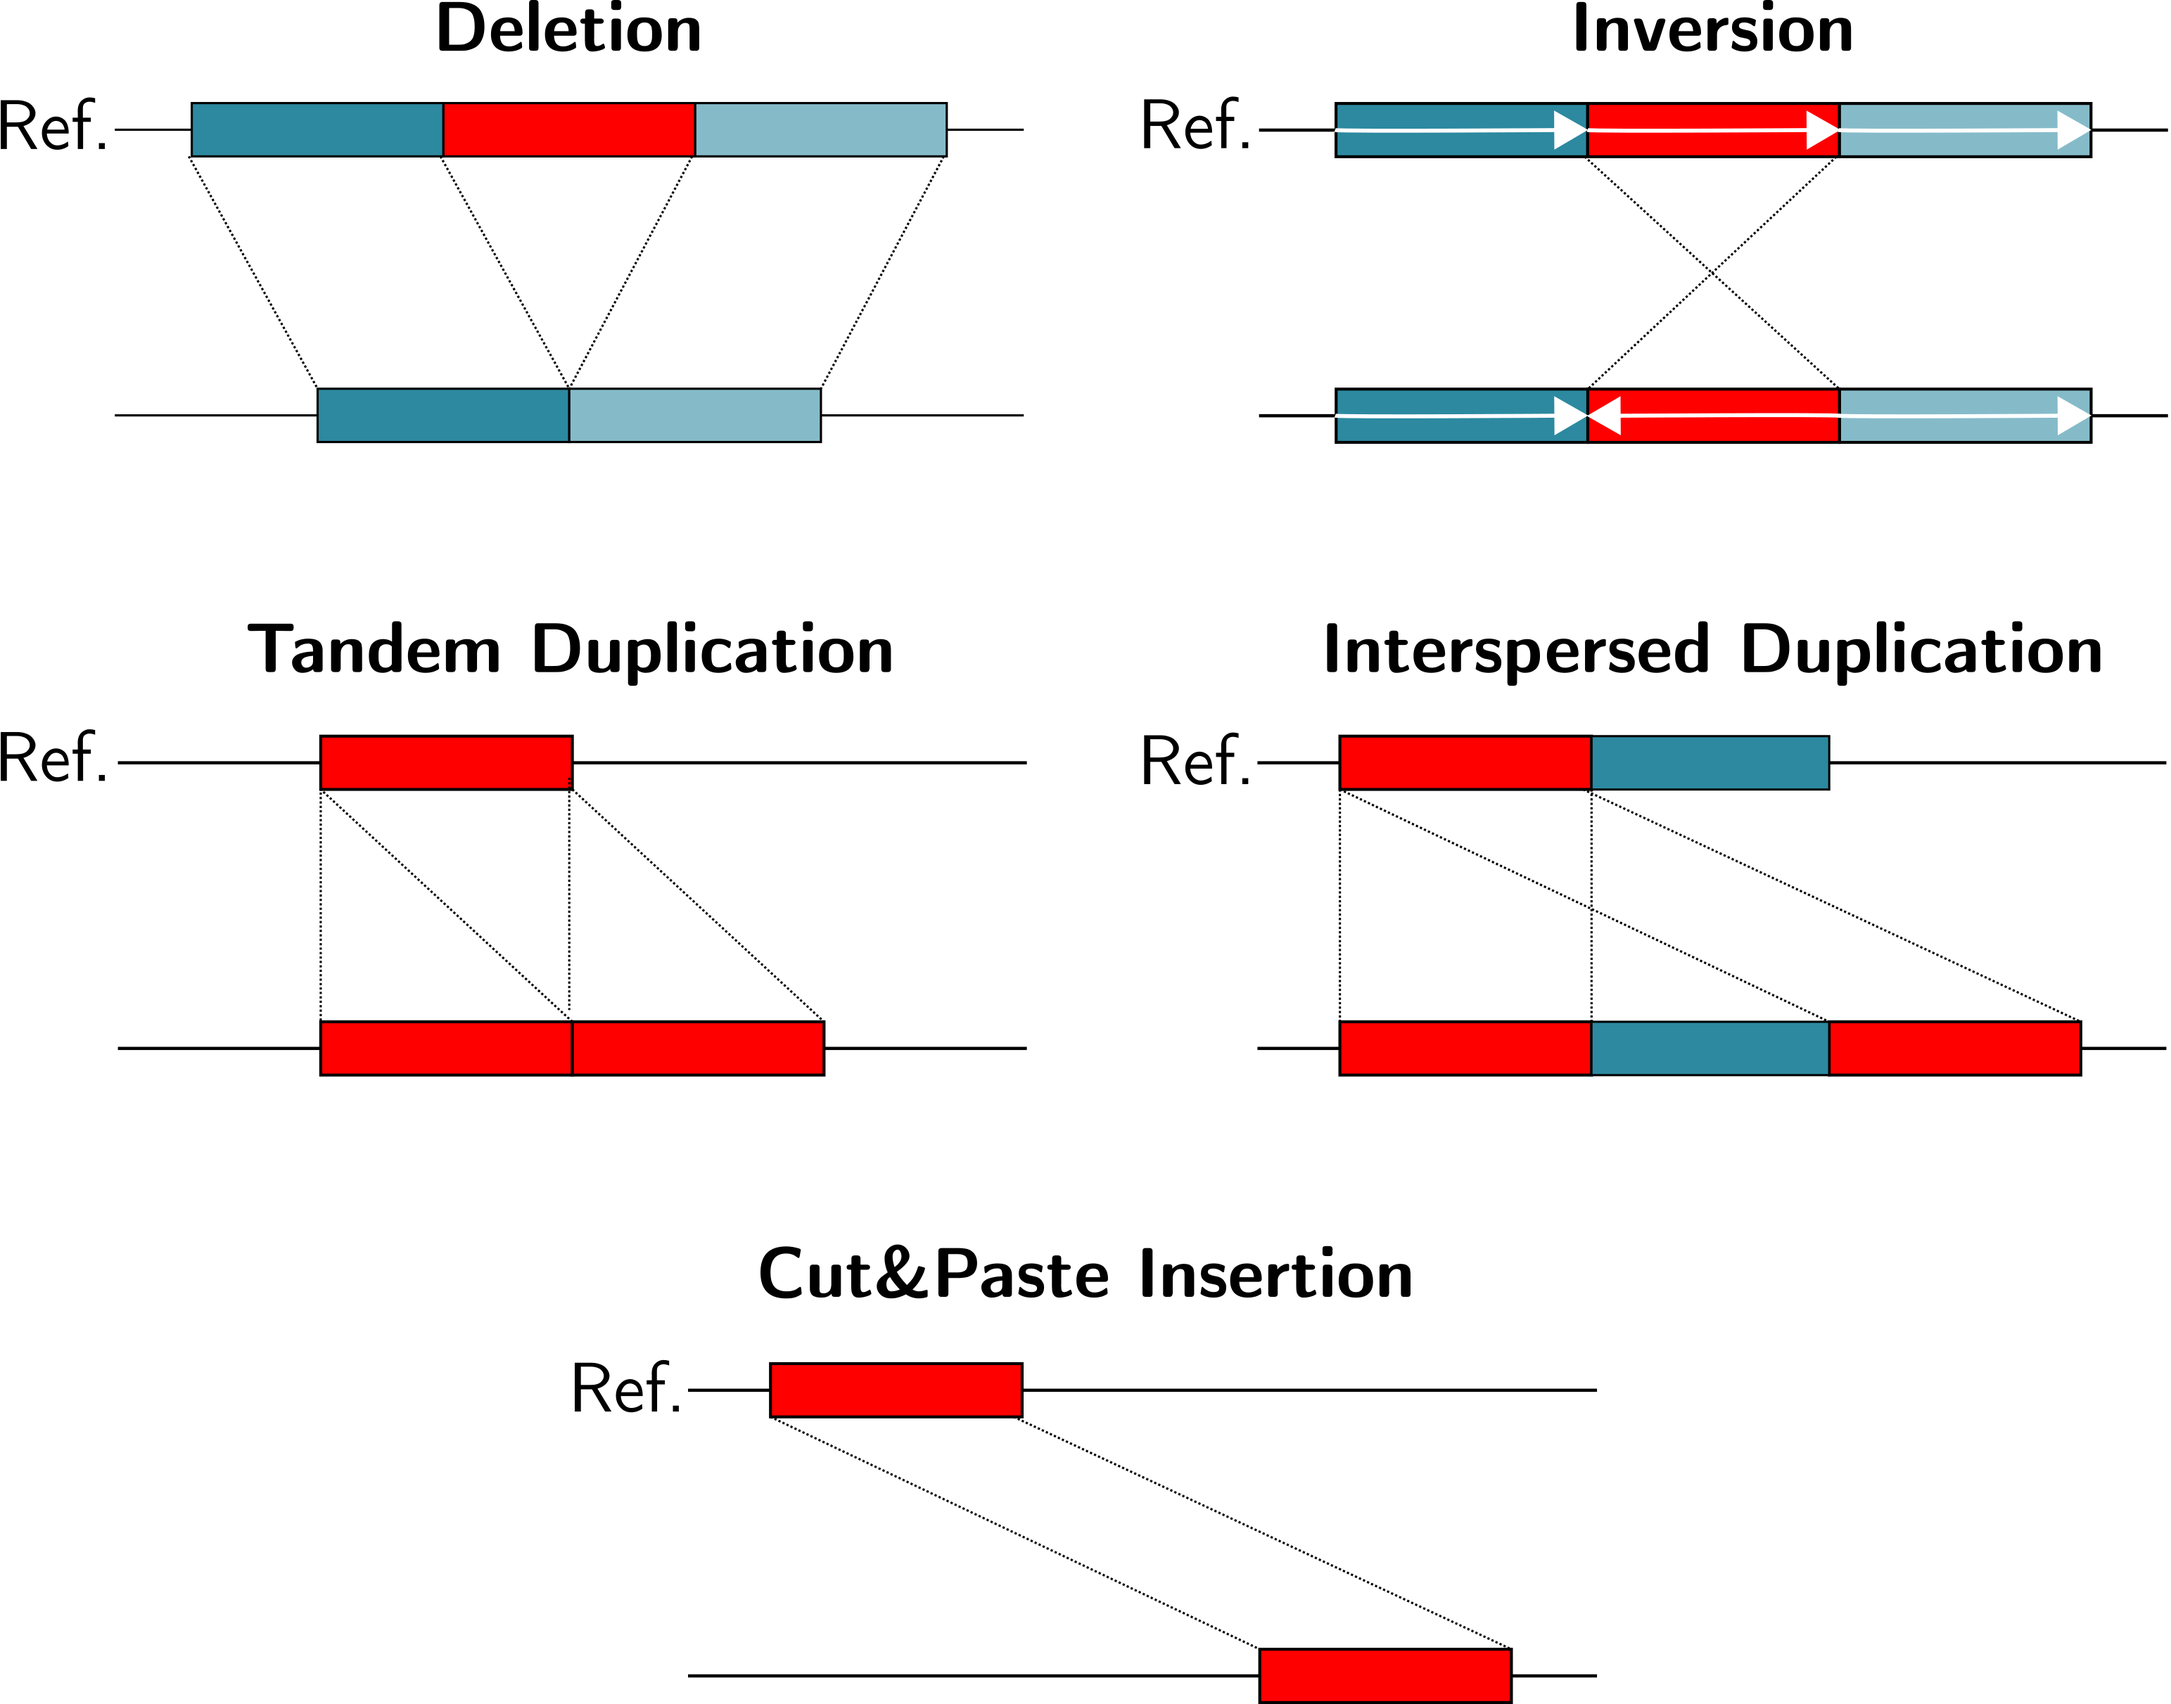
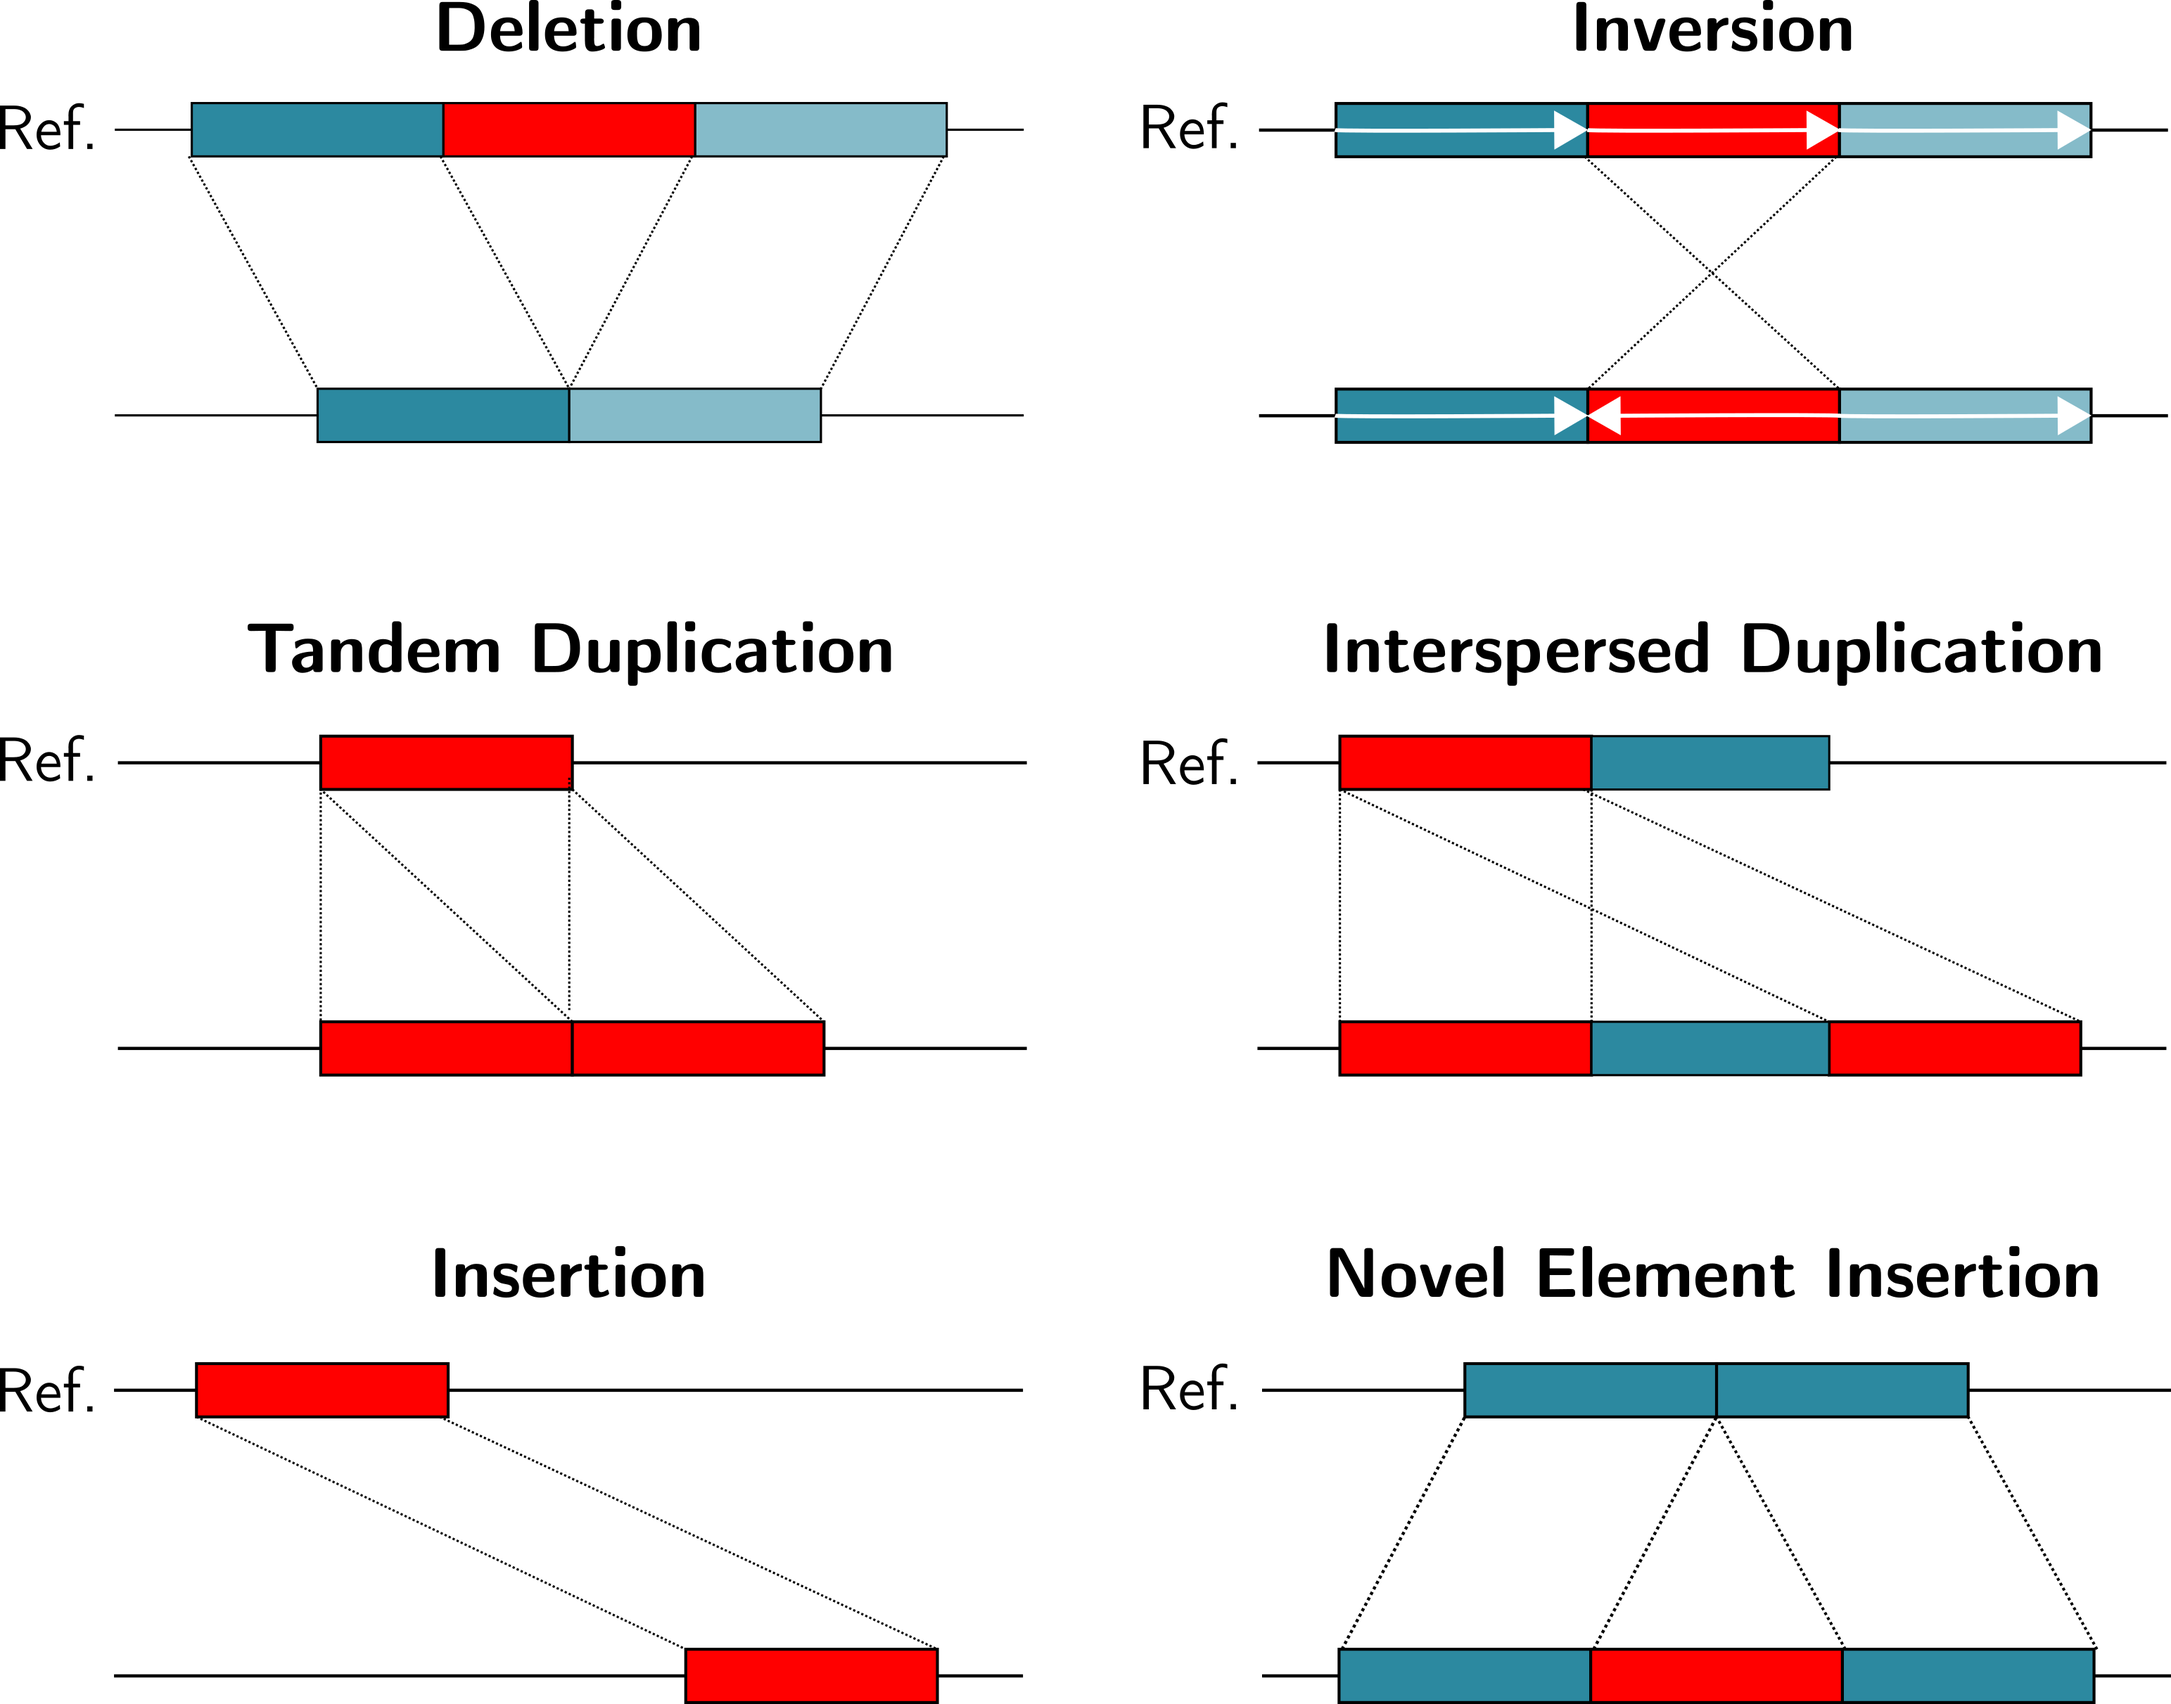
documentation: update sv classes schema and readme

diff --git a/README.md b/README.md
@@ -1,10 +1,12 @@
 ## SVIM - Structural variant identification using long reads
 
-SVIM (pronounced *SWIM*) is a structural variant caller for long reads. It combines read-tail mapping, full alignment analysis, and split-read mapping to distinguish five classes of structural variants. SVIM discriminates between similar SV classes such as interspersed duplications and cut&paste insertions and is unique in its capability of extracting both the genomic origin and destination of insertions and duplications.
+SVIM (pronounced *SWIM*) is a structural variant caller for long reads. It is able to detect and classify six different classes of structural variants.  Unlike existing methods, SVIM integrates information from across the genome to precisely distinguish similar events, such as duplications and cut&paste insertions. In our experiments on simulated and real PacBio data, SVIM reached consistently better results than competing methods, particularly on low-coverage datasets. Furthermore, it is unique in its capability of extracting both the genomic origin and destination of insertions and duplications.
 
-### Background
+### Background on Structural Variants and Long Reads
 
-Structural variants (SVs) are defined as genomic variants larger than 50 bps. They have been shown to affect more bases in any given genome than SNPs and small indels. Additionally, they have great impact on human phenotype and diversity and have been linked to numerous diseases. Due to their size and association with repeats, they are difficult to detect in shotgun sequencing, especially when based on short reads. Long read, single molecule sequencing technologies like those offered by Pacific Biosciences and Oxford Nanopore produce reads with lengths of several thousand base pairs. Despite their higher error rate, long read sequencing offers many advantages for the detection of structural variants, but available software tools still do not fully exploit the possibilities.
+Structural variants (SVs) are typically defined as genomic variants larger than 50bps (e.g. deletions, duplications, inversions). Studies have shown that they affect more bases in any given genome than SNPs and small Indels taken together. Consequently, they have a large impact on genes and regulatory regions. This is reflected in the large number of genetic diseases that are caused by SVs.
+
+Common sequencing technologies by providers such as Illumina generate short reads with high accuracy. However, they exhibit weaknesses in repeat and low-complexity regions. This negatively affects SV detection because SVs are associated to such regions. Single molecule long-read sequencing technologies from Pacific Biotechnologies and Oxford Nanopore produce reads with error rates of up to 15% but with lengths of several kb. The high read lengths enable them to cover entire repeats and SVs which facilitates SV detection.
 
 ### Input
 
@@ -14,11 +16,11 @@ SVIM analyzes long reads contained in a FASTA file. It was tested on PacBio data
 
 <img src="https://raw.githubusercontent.com/eldariont/svim/master/docs/SVclasses.png" align="right" width="400px">
 
-SVIM distinguishes five different SV classes: deletions, inversions, cut&paste insertions, interspersed and tandem duplications. For each of these SV classes, it produces a BED file with the SV coordinates. Additonally, a VCF file is produced containing all found SVs.
+SVIM distinguishes six different SV classes: deletions, inversions, cut&paste insertions, novel insertions, interspersed and tandem duplications. For each of these SV classes, it produces a BED file with the SV coordinates. Additonally, a VCF file is produced containing all found SVs.
 
 
 ### Contact
-If you experience problems or have suggestions please create issues or pull requests or contact heller_d@molgen.mpg.de.
+If you experience problems or have suggestions please create an issue or a pull request or contact heller_d@molgen.mpg.de.
 
 ### License
 
